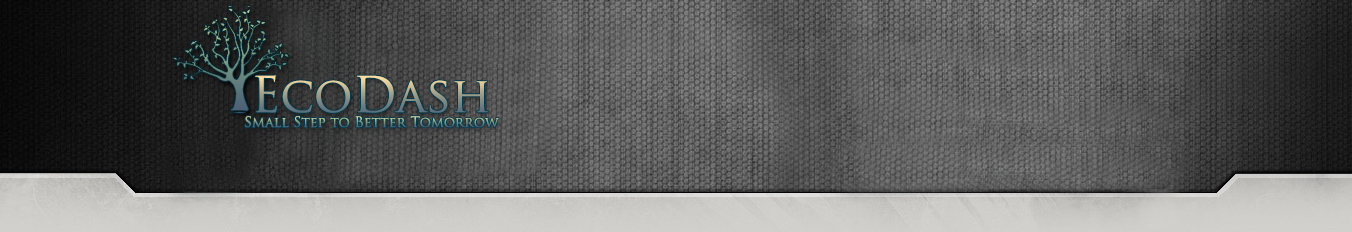
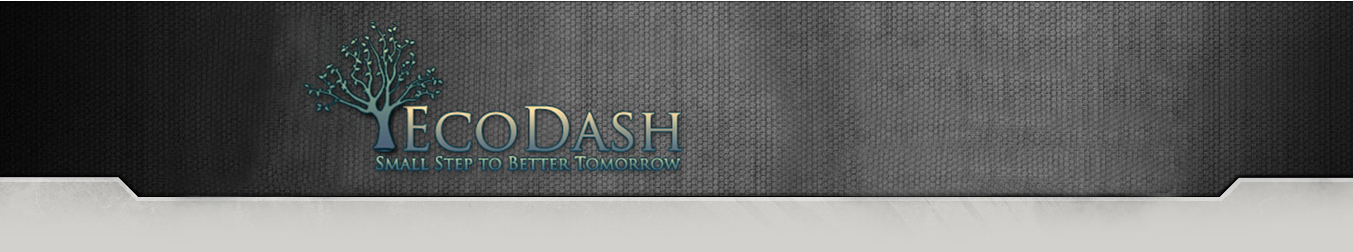
added design

Changed region(s): [[0.0, 0.0, 1.0, 0.8448]]

diff --git a/public/css/style.css b/public/css/style.css
@@ -9,13 +9,17 @@ body {
   width: 100%;
   height: 100%;
   overflow: auto;
-  background-image: url(/img/bg.jpg);
+  background-image: url(/img/background1.jpg);
 }
 header {
-  height: 245px;
+  height: 283px;
   background-image: url(/img/header.jpg);
   background-repeat: no-repeat;
   background-size: 100%;
+  font-family: 'Lora', serif;
+  color: rgb(49, 130, 176);
+  font-size: 15px;
+  font-family: 'Krona One', sans-serif;
 }
 .container {
   width: 1170px;
@@ -44,40 +48,44 @@ a.all_topics {
   overflow: auto;
   width: 100%;
   margin: 0 auto;
-  margin-top: 2%;
+  margin-top: 15px;
 }
 .sign_up {
   float: left;
   padding-left: 5%;
-  margin-top: 2%;
+  margin-top: 15px;
   padding-right: 12%;
   margin-bottom: 2%;
   border-right: 2px solid black;
 }
 .sign_up input{
   display: inline-block;
-  margin-top: 2%;
+  margin-top: 12px;
 }
 .sign_up .name input{
   margin-left: 85px;
+  width: 240px;
 }
 .sign_up .email input {
   margin-left: 88px;
+  width: 240px;
 }
 .sign_up .passsword input {
   margin-left: 58px;
+  width: 240px;
 }
 .sign_up .repeat_password input {
   margin-left: 3px;
+  width: 240px;
 }
 .log_in {
   float: left;
   padding-left: 12%;
-  margin-top: 2%;
+  margin-top: 15px;
   margin-bottom: 2%;
 }
 .log_in input {
-  margin-top: 2%;
+  margin-top: 12px;
   display: inline-block;
 }
 .log_in .email input {
@@ -103,7 +111,6 @@ div.leave_comment textarea {
   height: 150px;
 }
 
-
 footer {
   background-image: url(/img/footer.jpg);
   text-align: center;
@@ -123,13 +130,9 @@ footer p {
   font-weight: bold;
   letter-spacing: 1px;
 }
-header {
-  font-family: 'Lora', serif;
-  color: rgb(49, 130, 176);
-  font-size: 15px;
-}
 header a {
   text-decoration: none;
+  letter-spacing: 1px;
   color: rgb(235, 235, 235);
   font-size: 18px;
   font-weight: bold;
@@ -137,23 +140,28 @@ header a {
 
 header .home{
   position: absolute;
-  top: 167px;
+  top: 195px;
   right: 330px;
 }
+
  header .log_out {
   position: absolute;
-  top: 167px;
+  top: 195px;
   right: 215px;
  }
 
 header .profile_button {
   display: inline-block;
   position: absolute;
-  top: 167px;
-  right: 480px;
+  top: 195px;
+  right: 510px;
 }
 header .profile_button img {
   display: inline;
+}
+
+header .profile_button:hover, header .home:hover {
+  text-decoration: underline;
 }
 .profile_info {
   width: 100%;
@@ -253,6 +261,7 @@ width: 40%;
   background-image: url(/img/bg_brighter.jpg);
   overflow: auto;
   margin-top: -20px;
+  height: 100%;
 }
 .topic_name {
   font-family: 'Permanent Marker', cursive;
@@ -269,28 +278,34 @@ width: 40%;
 .vote_num {
   position:relative;
   display: inline;
-  left: 65px;
-  top:-26px;
+  left: 135px;
+  top:-40px;
 }
 .topic_author {
   float: left;
-  margin: 2%;
   width: 18%;
+  height: 100%;
 }
 .topic_author img {
-  margin: 0 9%;
+
+  padding:0 27%;
+  padding-top: 30%;
+}
+.topic_author p{
+  text-align: center;
 }
 .topic_text p.time {
   border-bottom: 1px solid black ;
   margin-right: 10px;
-  margin-left: 22%;
+  margin-left: 207px;
   padding-bottom: 0.5%;
 }
 .topic_text p.time a{
-  margin-left: 770px;
+  margin-left: 733px;
 }
 .topic_text {
   margin-right: 15px;
+  clear: right;
 }
 
 .topic_tag {
@@ -300,20 +315,37 @@ width: 40%;
   margin-right: 5px;
 }
 p.leave_comment {
-  margin-left: 5px;
+  margin-left: 2px;
+  display: inline-block;
+  text-shadow: 1px 1px 3px #4f4d4f;
+  -webkit-box-shadow: 0px 1px 3px #666666;
+  -moz-box-shadow: 0px 1px 3px #666666;
+  box-shadow: 0px 1px 3px #666666;
+  font-family: Georgia;
+  color: #ffffff;
+  font-size: 20px;
+  background: #969096;
+  background-image: -webkit-linear-gradient(top, #969096, #615e61);
+  background-image: -moz-linear-gradient(top, #969096, #615e61);
+  background-image: -ms-linear-gradient(top, #969096, #615e61);
+  background-image: -o-linear-gradient(top, #969096, #615e61);
+  background-image: linear-gradient(to bottom, #969096, #615e61);
+  padding: 9px 15px 8px 16px;
+  text-decoration: none;
+  cursor: pointer;
 }
 p.leave_comment:hover {
-  cursor:pointer;
-  text-decoration: underline;
-  color: rgb(25, 79, 119);
+  background: #a8a8a8;
+  text-decoration: none;
 }
 .all_comments {
   background-image: url(/img/bg_brighter.jpg);
   overflow: auto;
   margin-top: 20px;
+  margin-bottom: 20px;
 }
 .comment_subject {
-  color: rgb(150, 150, 150);
+  color: rgb(80, 80, 80);
 }
 .new_topic input[type="submit"] {
   display: inline;
@@ -328,24 +360,30 @@ p.leave_comment:hover {
   width: 1150px;
   margin: 0 auto;
 }
-.topics_table tr:not(:first-child) {
-  background-image: url(/img/bg_brighter.jpg);
+.topic_row {
+  background-color: rgb(236, 235, 233);
 }
 .topics_table td {
   padding-top: 15px;
   padding-bottom: 15px;
-  border-bottom: 2px solid rgb(210, 209, 205);
+  border-bottom: 5px solid rgb(210, 209, 205);
 }
 .table_name {
   width: 900px;
   padding-left: 20px;
+}
+.topic_row:hover {
+  background-color: white;
 }
 .table_name a {
   text-decoration: none;
   color: black;
 }
 .table_name a:visited{
-  color: rgb(150, 150, 150);
+  color: rgb(100, 100, 100);
+}
+.table_name a:hover {
+  text-decoration: underline;
 }
 .edit_profile {
   width: 80%;
@@ -358,7 +396,7 @@ p.leave_comment:hover {
 .edit_profile dd {
   width: 70%;
   float: left;
-  margin-bottom: 10px;
+  margin-bottom: 15px;
 }
 .edit_profile input[type="text"], .edit_profile input[type="password"]{
   width: 300px;
@@ -366,3 +404,13 @@ p.leave_comment:hover {
 .edit_profile .submit {
   margin-right: 15px;
 }
+
+.edit_profile {
+  background-image: url(/img/bg_brighter.jpg);
+  padding: 20px;
+}
+.empty {
+  margin-left: 25px;
+}
+
+

diff --git a/public/scripts/main.js b/public/scripts/main.js
@@ -14,7 +14,4 @@ window.addEventListener('load', function() {
     $("div.leave_comment").hide()
   })
 
-
-
-
 })

diff --git a/forum.rb b/forum.rb
@@ -204,6 +204,11 @@ module Forum
       if user_id == current_user
         @edit_topic = "Edit"
       end
+      if !logged_in?
+        @empty_message = "You have to be a member to leave a message"
+      end
+
+
       erb :topic
     end
 #######EDIT TOPIC PAGE#########
@@ -243,25 +248,30 @@ module Forum
       redirect ('/topics')
     end
 ###########ADD COMMENT###############
-    post '/topics/:topic_id/comments' do
-      @subject = params[:subject]
-      text = @markdown.render(params[:message])
+    post '/topics/:topic_id' do
       @topic_id = params[:topic_id]
-      @topic = $db.exec_params('SELECT * FROM topics WHERE id = $1', [@topic_id]).first
-      @num_comments = $db.exec_params("SELECT count(*) FROM comments WHERE topic_id = $1", [@topic_id]).first["count"]
-      user_id = @topic["user_id"]
-      @topic_author = $db.exec_params("SELECT * FROM users WHERE id = $1", [user_id]).first["name"]
-      @comments = $db.exec_params("SELECT comments.*, users.name AS comment_author FROM comments JOIN users ON users.id = comments.user_id WHERE comments.topic_id = $1", [@topic_id])
-      if user_id == current_user
-        @edit_topic = "Edit"
-      end
-      if not_empty?(text)
-        $db.exec_params("INSERT INTO comments (subject, message, user_id, topic_id, created_at) VALUES ($1,$2, $3, $4, CURRENT_DATE)", [@subject, text, current_user, @topic_id]);
-        redirect "/topics/#{@topic_id}"
-      else
-        @empty_message = "Don't forget to add the comment"
+      if logged_in?
+        text = @markdown.render(params[:message])
+        @topic = $db.exec_params('SELECT * FROM topics WHERE id = $1', [@topic_id]).first
+        @subject = params[:subject]
+        @num_comments = $db.exec_params("SELECT count(*) FROM comments WHERE topic_id = $1", [@topic_id]).first["count"]
+        user_id = @topic["user_id"]
+        @topic_author = $db.exec_params("SELECT * FROM users WHERE id = $1", [user_id]).first["name"]
+        @user_img = $db.exec_params("SELECT * FROM users WHERE id = $1", [user_id]).first["img_url"]
+        @comments = $db.exec_params("SELECT comments.*, users.name AS comment_author FROM comments JOIN users ON users.id = comments.user_id WHERE comments.topic_id = $1", [@topic_id])
+        if user_id == current_user
+          @edit_topic = "Edit"
+        end
+        if not_empty?(text)
+          $db.exec_params("INSERT INTO comments (subject, message, user_id, topic_id, created_at) VALUES ($1,$2, $3, $4, CURRENT_DATE)", [@subject, text, current_user, @topic_id]);
+          redirect "/topics/#{@topic_id}"
+        else
+          @empty_message = "Don't forget to add the comment"
 
-        erb :topic
+          erb :topic
+        end
+      else
+        redirect "/topics/#{@topic_id}"
       end
     end
 ##########EDIT COMMENT PAGE##################
@@ -321,10 +331,18 @@ module Forum
       redirect '/index'
     end
 
-    patch '/topics/:topic_id/tag' do
+    patch '/topics/:topic_id/upvote' do
       author = $db.exec_params("SELECT user_id FROM topics WHERE id = $1", [params[:topic_id]]).first['user_id']
       if current_user != author
       $db.exec_params("UPDATE topics SET num_votes = (num_votes + 1) WHERE id = $1", [params[:topic_id]])
+    end
+      redirect  "/topics/#{params[:topic_id]}"
+    end
+
+       patch '/topics/:topic_id/downvote' do
+      author = $db.exec_params("SELECT user_id FROM topics WHERE id = $1", [params[:topic_id]]).first['user_id']
+      if current_user != author
+      $db.exec_params("UPDATE topics SET num_votes = (num_votes - 1) WHERE id = $1", [params[:topic_id]])
 
     end
       redirect  "/topics/#{params[:topic_id]}"
